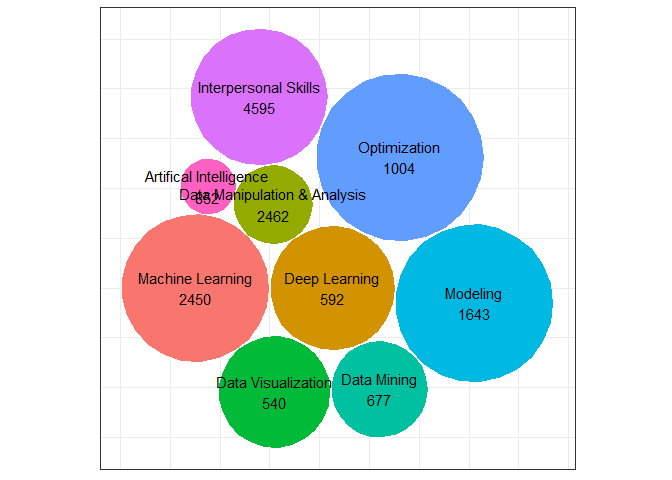
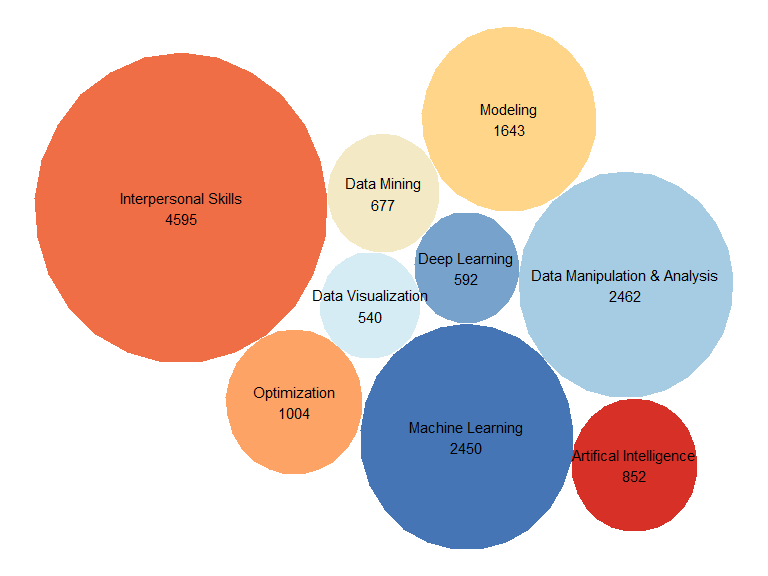
Fix bubble plot for skill variable

diff --git a/tools_and_skills.md b/tools_and_skills.md
@@ -93,10 +93,11 @@ skill_new = skill_new %>%
   as.tibble() %>% 
   cbind(skills = c("Machine Learning", "Deep Learning", "Data Manipulation & Analysis", "Data Visualization", "Data Mining", "Modeling", "Optimization", "Interpersonal Skills", "Artifical Intelligence"), .$value) %>% 
   select(skills, sum = value) %>% 
-  `row.names<-.default`(1:9)
+  `row.names<-.default`(1:9) %>% 
+  mutate(skills = fct_reorder(skills, sum))
   
 # use packege`packcircles` to make bubble plot
-packing <- circleProgressiveLayout(skill_new)
+packing <- circleProgressiveLayout(skill_new$sum)
 dat.gg <- circleLayoutVertices(packing)
 
 plot_df <- cbind(skill_new, packing) 
@@ -104,18 +105,15 @@ plot_df <- cbind(skill_new, packing)
 plot_df$text2 <- paste0(plot_df$skills,"\n",plot_df$sum)
 
 ggplot(data = dat.gg) +
-  geom_polygon(aes(x, y, group = id, fill =  factor(id)), color = "white", show.legend = FALSE) +
+  geom_polygon(aes(x, y, group = id, fill =  id), show.legend = FALSE) +
   scale_y_reverse() +
   coord_equal() +
   geom_text(data = plot_df, aes(x, y,label = text2)) +
-  theme(
-    axis.title.x = element_blank(),
-    axis.title.y = element_blank(),
-    axis.ticks.x = element_blank(),
-    axis.ticks.y = element_blank(),
-    axis.text.x = element_blank(),
-    axis.text.y = element_blank()
-    )
+  scale_fill_distiller(palette = "RdYlBu") +
+  coord_flip() +
+  theme_void()
 ```
+
+    ## Coordinate system already present. Adding new coordinate system, which will replace the existing one.
 
 ![](tools_and_skills_files/figure-markdown_github/unnamed-chunk-5-1.png)
